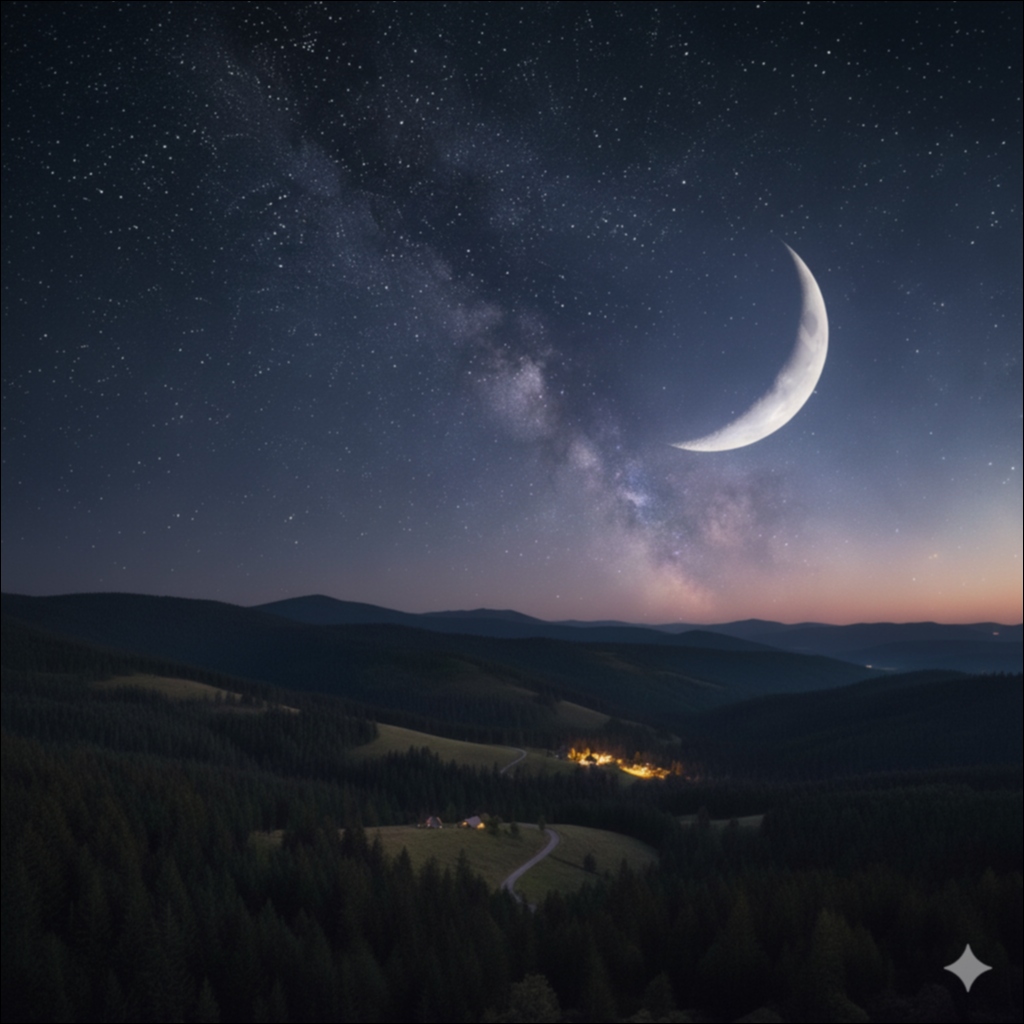
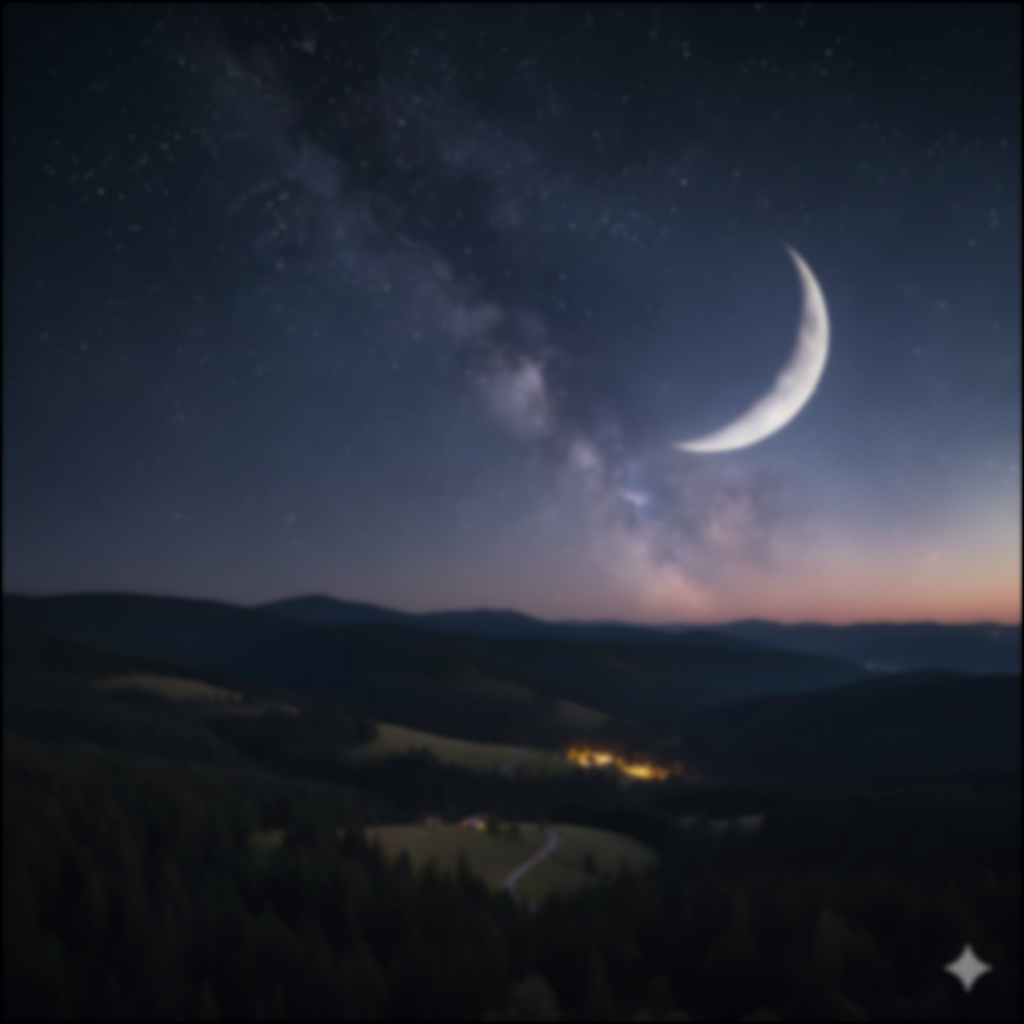
Update main.cpp

diff --git a/main.cpp b/main.cpp
@@ -213,13 +213,23 @@ int main()
             break;
 
         case 3:
-
             if (c_blurred->width)
             {
                 printf("Already implemented.\n");
                 break;
             }
-            n_blurring(c_blurred, main_image);
+            {
+                img *tmp = (img *)calloc(1, sizeof(img));
+                c_blurring(c_blurred, main_image);
+                for (int i = 0; i < 9; i++)
+                {
+                    c_blurring(tmp, c_blurred);
+                    free(c_blurred->pixels);
+                    c_blurred->pixels = tmp->pixels;
+                    tmp->pixels = nullptr;
+                }
+                free(tmp);
+            }
             stbi_write_png("output/c_blurred_img.png", width, height, 3, c_blurred->pixels, width * 3);
             if (c_blurred)
                 printf("Circular Blurred image saved as c_blurred_img.png\n");
